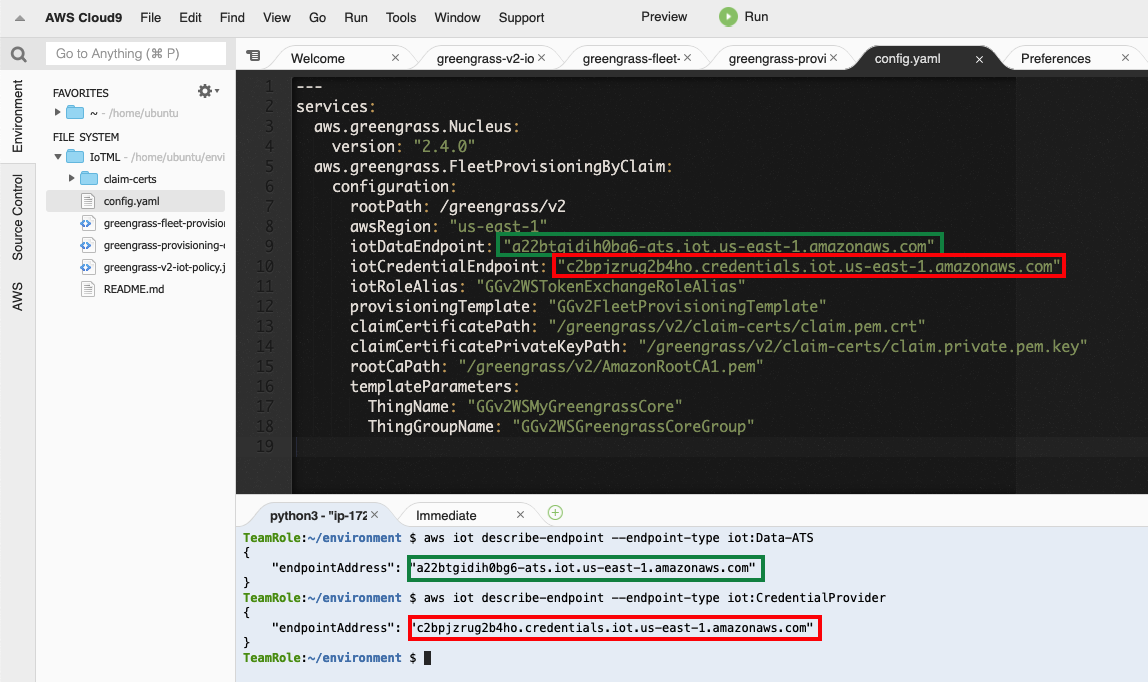
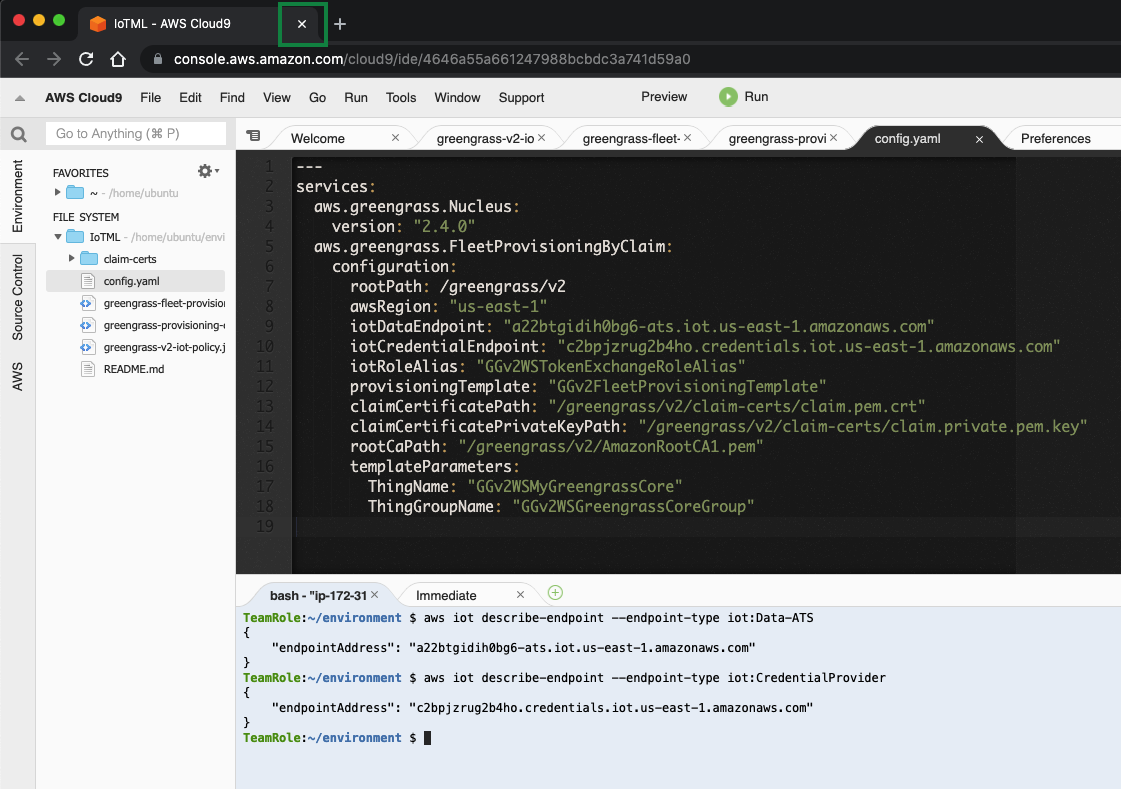
updated screenshots

diff --git a/workshop/content/2/2_3/_index.en.md b/workshop/content/2/2_3/_index.en.md
@@ -68,7 +68,7 @@ services:
 
 Please refer to below sceenshot to make a configuration file.
 
-![1.jpg](/images/2/3/1.png)
+![3.jpg](/images/2/3/1.png)
 
 Please right click on ***config.yaml*** and click ***Download***, to download it.
 You will use this this file for setting up Greengrass V2 with AWS IoT Fleet Provisioning in the following labs.
@@ -77,3 +77,6 @@ You will use this this file for setting up Greengrass V2 with AWS IoT Fleet Prov
 
 After you completed this lab, you can close the browser tab of ***IoT ML*** Cloud9 IDE.
 ![3.jpg](/images/2/3/3.png)
+
+
+![4.jpg](/images/2/3/4.png)

diff --git a/workshop/content/0/0_1/_index.en.md b/workshop/content/0/0_1/_index.en.md
@@ -31,6 +31,3 @@ When Cloud9 is created, the following screen is shown. If the result is printed 
 
 Please click 'gear icon' in the upper left, and click 'Show Home in Favorites'.
 ![6.png](/images/0/6.png)
-
-
-![1.jpg](/images/2/3/1.png)
